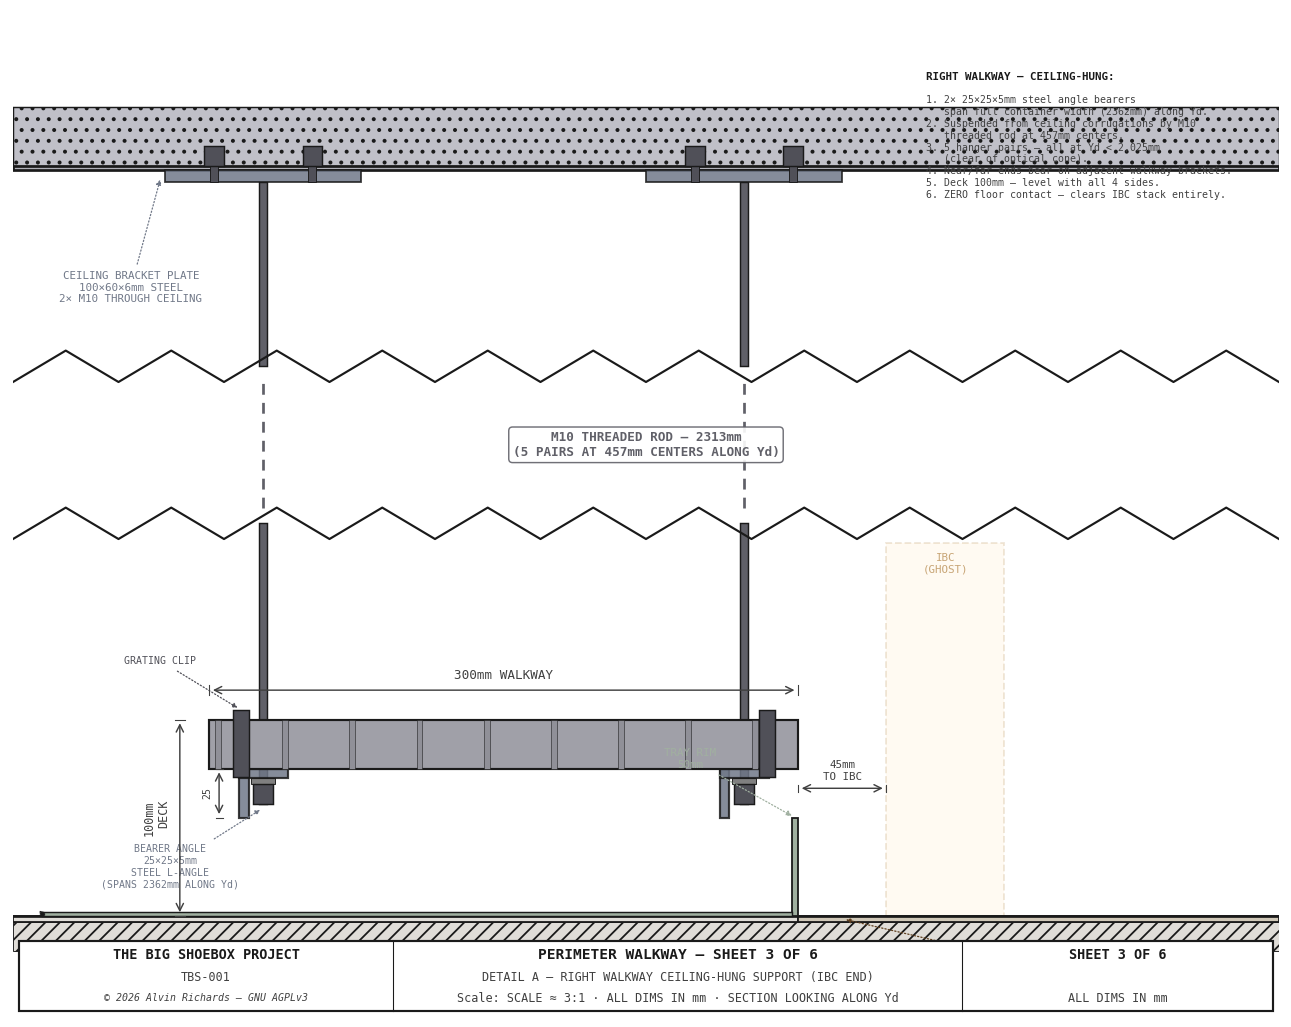
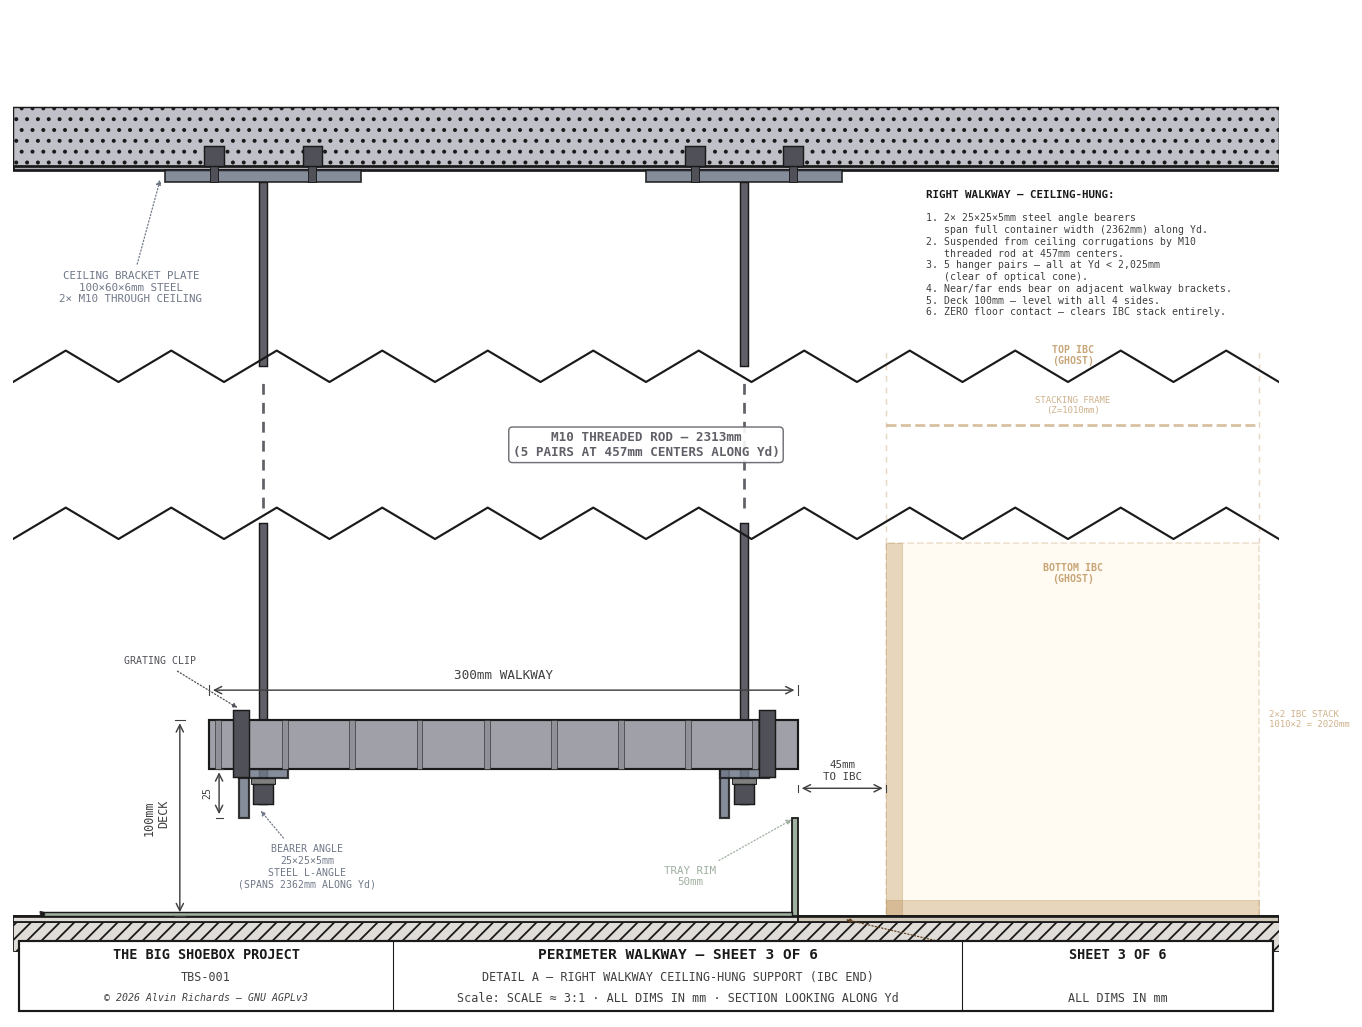
Sheet 3: improve IBC ghost to show 2×2 stacking structure
Replace single featureless rectangle with proper 2-tier ghost showing
cage frame posts, bottom rail, stacking frame line at Z=1010mm, and
top/bottom IBC labels. Dashed continuation through break zone.

diff --git a/generate_walkway_diagram.py b/generate_walkway_diagram.py
@@ -64,7 +64,7 @@ from tbs_constants import (
     WALKWAY_RIGHT_BEARER_SIZE, WALKWAY_RIGHT_BEARER_T,
     WALKWAY_RIGHT_HANGER_D, WALKWAY_RIGHT_HANGER_N, WALKWAY_RIGHT_HANGER_L,
     WALKWAY_RIGHT_CEIL_PLATE,
-    WALKWAY_LEFT_SPAN, IBC_COL_X,
+    WALKWAY_LEFT_SPAN, IBC_COL_X, IBC_W, IBC_H_600,
     CONTAINER_RIB_SPACING,
     WALKWAY_NEAR_YD, WALKWAY_FAR_YD, WALKWAY_LEFT_X, WALKWAY_RIGHT_X,
     PROC_OPEN_X_L, PROC_OPEN_X_R, PROC_OPEN_YD_N, PROC_OPEN_YD_F,
@@ -932,21 +932,65 @@ def sheet4():
     ax.plot([bx_tray - 3, bx_tray + 3, bx_tray - 3, bx_tray + 3, bx_tray - 3],
             zz_t, color=C_OUT, lw=1.0, zorder=5)
     leader(ax, sx(TRAY_DX - TRAY_WALL / 2), sy(zy_bot(PROC_TRAY_RIM)),
-           sx(TRAY_DX - 55), sy(zy_bot(PROC_TRAY_RIM + 30)),
+           sx(TRAY_DX - 55), sy(zy_bot(PROC_TRAY_RIM - 30)),
            f"TRAY RIM\n{PROC_TRAY_RIM}mm",
            color=C_TRAY, fs=6,
            ha="center", va="center", arrow_style="-|>", font=FONT)
 
-    # IBC ghost (short, just in bottom zone)
-    IBC_SHOW_W = 60
+    # IBC ghost — 2×2 stack (bottom zone + through break + into top zone)
+    # Cross-section looking along Yd: horizontal = X, vertical = Z
+    # IBC inner face at IBC_DX, extends IBC_W = 1219mm to the right
+    IBC_SHOW_W = min(IBC_W, X_HI - IBC_DX - 10)  # clip to drawing width
+    C_IBC = "#B08040"
+    IBC_A = 0.20   # ghost alpha
+
+    # Bottom IBC (Z=0 to IBC_H_600) — only bottom zone visible
     ax.add_patch(Rectangle((sx(IBC_DX), sy(zy_bot(0))),
                             sx(IBC_SHOW_W), sy(BOT_Z_HI - 10),
-                            fc="#FFE8C0", ec="#B08040", lw=1.0, ls="--",
-                            zorder=2, alpha=0.20))
-    ax.text(sx(IBC_DX + IBC_SHOW_W / 2), sy(zy_bot(BOT_Z_HI - 15)),
-            "IBC\n(GHOST)",
-            ha="center", va="top", fontsize=6, color="#B08040",
-            **FONT, zorder=15, alpha=0.7)
+                            fc="#FFE8C0", ec=C_IBC, lw=1.0, ls="--",
+                            zorder=2, alpha=IBC_A))
+    # IBC cage vertical posts at inner face
+    post_w = 8
+    ax.add_patch(Rectangle((sx(IBC_DX), sy(zy_bot(0))),
+                            sx(post_w), sy(BOT_Z_HI - 10),
+                            fc=C_IBC, ec=C_IBC, lw=0.5,
+                            zorder=2, alpha=IBC_A * 1.5))
+    # IBC cage bottom rail
+    ax.add_patch(Rectangle((sx(IBC_DX), sy(zy_bot(0))),
+                            sx(IBC_SHOW_W), sy(post_w),
+                            fc=C_IBC, ec=C_IBC, lw=0.5,
+                            zorder=2, alpha=IBC_A * 1.5))
+
+    # Continuation through break zone (dashed vertical lines)
+    for edge_x in [IBC_DX, IBC_DX + IBC_SHOW_W]:
+        ax.plot([sx(edge_x), sx(edge_x)],
+                [sy(zy_bot(BOT_Z_HI - 10)), sy(zy_top(TOP_Z_LO + 10))],
+                color=C_IBC, lw=0.8, ls=(0, (4, 4)), alpha=0.3, zorder=1)
+
+    # Stacking frame line (at Z = IBC_H_600 = 1010mm) — annotated in break
+    frame_label_y = (zy_bot(BOT_Z_HI) + zy_top(TOP_Z_LO)) / 2 + 10
+    ax.plot([sx(IBC_DX), sx(IBC_DX + IBC_SHOW_W)],
+            [sy(frame_label_y), sy(frame_label_y)],
+            color=C_IBC, lw=1.5, ls="--", alpha=0.5, zorder=1)
+    ax.text(sx(IBC_DX + IBC_SHOW_W / 2), sy(frame_label_y + 5),
+            f"STACKING FRAME\n(Z={IBC_H_600}mm)",
+            ha="center", va="bottom", fontsize=5, color=C_IBC,
+            **FONT, zorder=15, alpha=0.6)
+
+    # Labels
+    ax.text(sx(IBC_DX + IBC_SHOW_W / 2), sy(zy_bot(BOT_Z_HI - 20)),
+            f"BOTTOM IBC\n(GHOST)",
+            ha="center", va="top", fontsize=5.5, color=C_IBC,
+            fontweight="bold", **FONT, zorder=15, alpha=0.7)
+    ax.text(sx(IBC_DX + IBC_SHOW_W / 2), sy(frame_label_y + 30),
+            f"TOP IBC\n(GHOST)",
+            ha="center", va="bottom", fontsize=5.5, color=C_IBC,
+            fontweight="bold", **FONT, zorder=15, alpha=0.7)
+    # Stack annotation
+    ax.text(sx(IBC_DX + IBC_SHOW_W + 5), sy(zy_bot(BOT_Z_HI / 2)),
+            f"2\u00d72 IBC STACK\n{IBC_H_600}\u00d72 = {IBC_H_600*2}mm",
+            ha="left", va="center", fontsize=5, color=C_IBC,
+            **FONT, zorder=15, alpha=0.6)
 
     # Bearer angles
     for br_x in [BR_IN_X, BR_OUT_X]:
@@ -957,8 +1001,8 @@ def sheet4():
                                 sx(BEARER_S), sy(BEARER_T),
                                 fc=C_BRKT, ec=C_OUT, lw=1.2, zorder=8, alpha=0.85))
 
-    leader(ax, sx(BR_IN_X + BEARER_S / 2), sy(zy_bot(BEARER_BOT + 5)),
-           sx(BR_IN_X - 35), sy(zy_bot(BEARER_BOT - 25)),
+    leader(ax, sx(BR_IN_X + BEARER_S * 0.4), sy(zy_bot(BEARER_BOT + 5)),
+           sx(BR_IN_X + 35), sy(zy_bot(BEARER_BOT - 25)),
            f"BEARER ANGLE\n{BEARER_S}\u00d7{BEARER_S}\u00d7{BEARER_T}mm\nSTEEL L-ANGLE\n"
            f"(SPANS {C_WID}mm ALONG Yd)",
            color=C_BRKT, fs=5.5,
@@ -1094,7 +1138,7 @@ def sheet4():
 
     # ── Notes ────────────────────────────────────────────────────────────────
     notes_x = sx(X_HI - 180)
-    notes_top = sy(zy_top(C_HGT + CEIL_CORR_H + 20))
+    notes_top = sy(zy_top(C_HGT - CEIL_CORR_H + 20))
     notes = [
         "RIGHT WALKWAY \u2014 CEILING-HUNG:",
         "",
